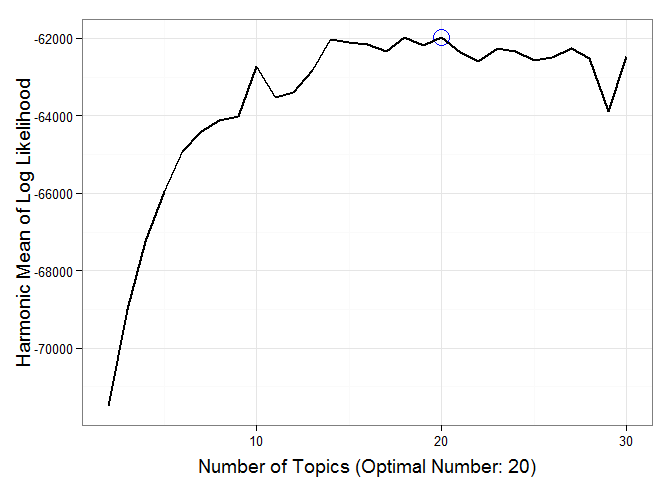
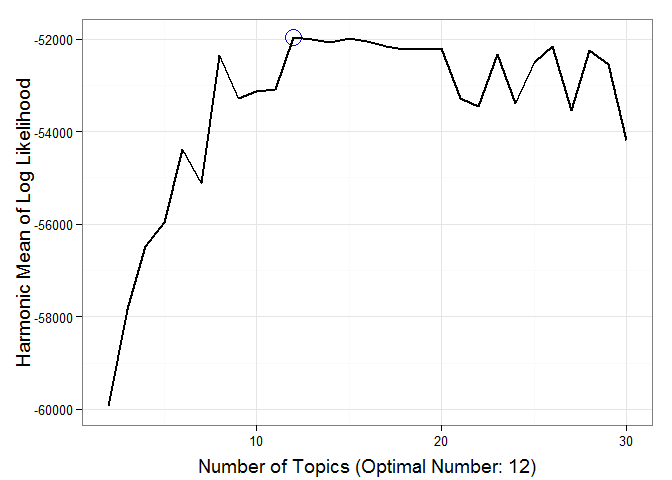
updated

diff --git a/README.md b/README.md
@@ -352,7 +352,7 @@ The .R script for this demonstration can be downloaded from
     ))
 
     ## SHA-1 hash of file is 5ac52af21ce36dfe8f529b4fe77568ced9307cf0
-    ## SHA-1 hash of file is caf4f4a04cdfac757c95e4bef76743b50cbee36a
+    ## SHA-1 hash of file is e16a1d52f9c27fd5c2379c874e30e5d38b1c9810
 
     data(presidential_debates_2012)
 
@@ -360,6 +360,7 @@ The .R script for this demonstration can be downloaded from
 
     stops <- c(
             tm::stopwords("english"),
+            tm::stopwords("SMART"),
             "governor", "president", "mister", "obama","romney"
         ) %>%
         gofastr::prep_stopwords() 
@@ -391,10 +392,10 @@ The plot below shows the harmonic mean of the log likelihoods against k
     ## 
     ## Grab a cup of coffee this is gonna take a while...
 
-    ## 10 of 30 iterations (Time elapsed: .4 mins)
-    ## 20 of 30 iterations (Time elapsed: 1.5 mins)
-    ## 30 of 30 iterations (Time elapsed: 3.3 mins)
-    ## Optimal number of topics = 20
+    ## 10 of 30 iterations (Time elapsed: .3 mins)
+    ## 20 of 30 iterations (Time elapsed: 1.2 mins)
+    ## 30 of 30 iterations (Time elapsed: 2.7 mins)
+    ## Optimal number of topics = 12
 
     k
 
